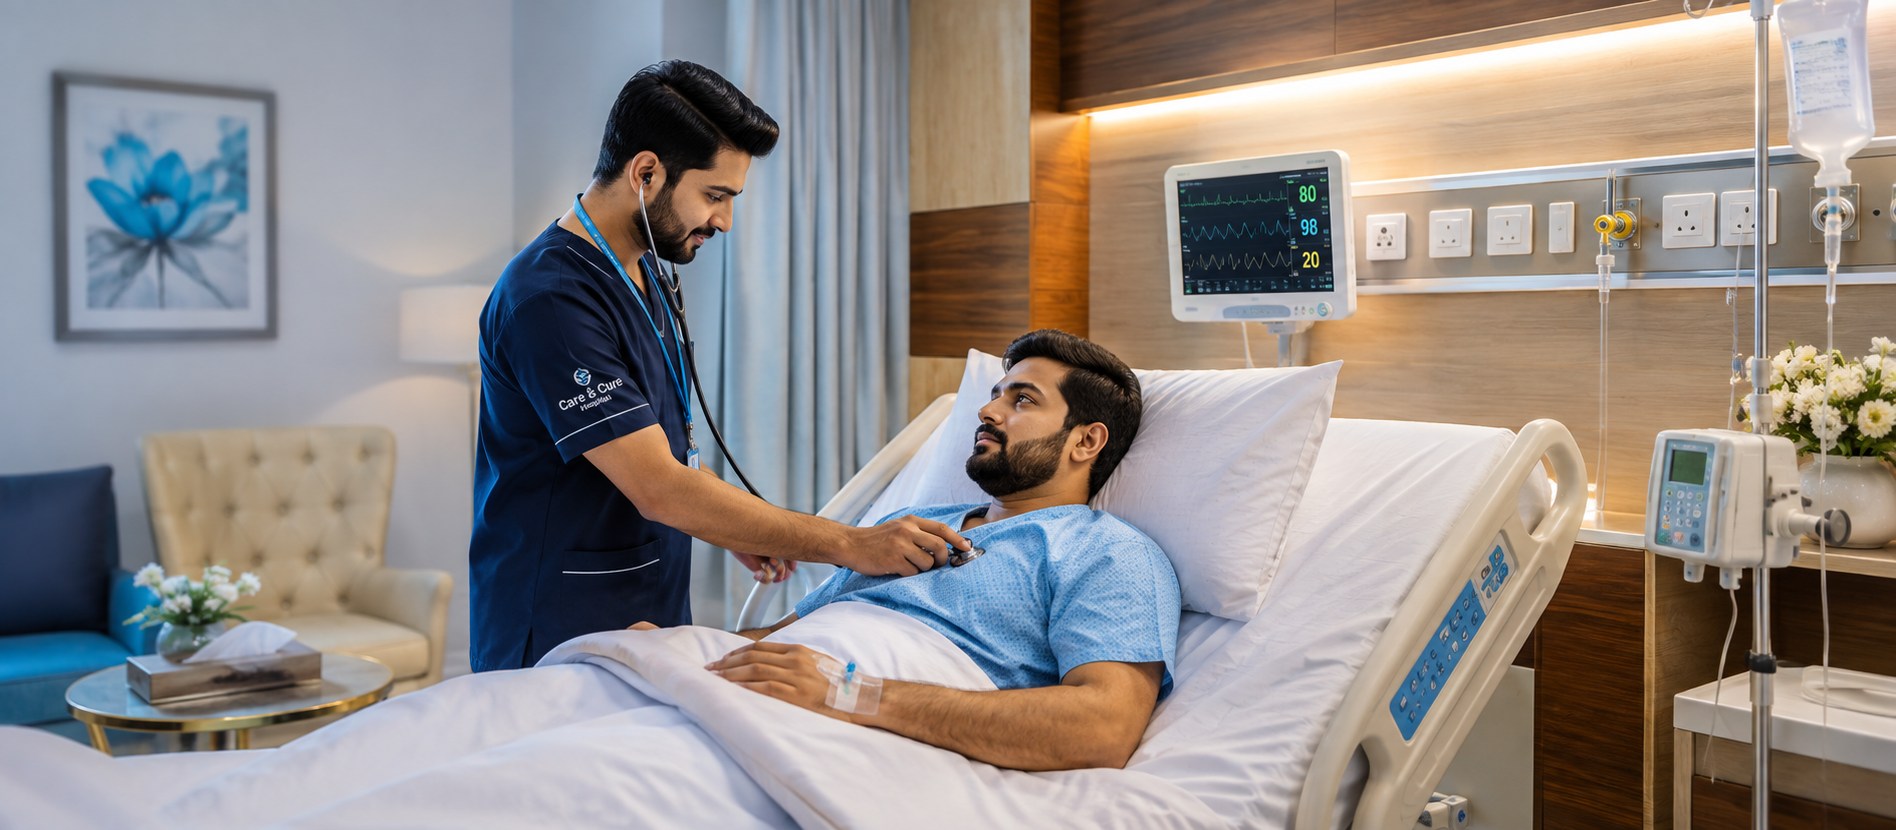
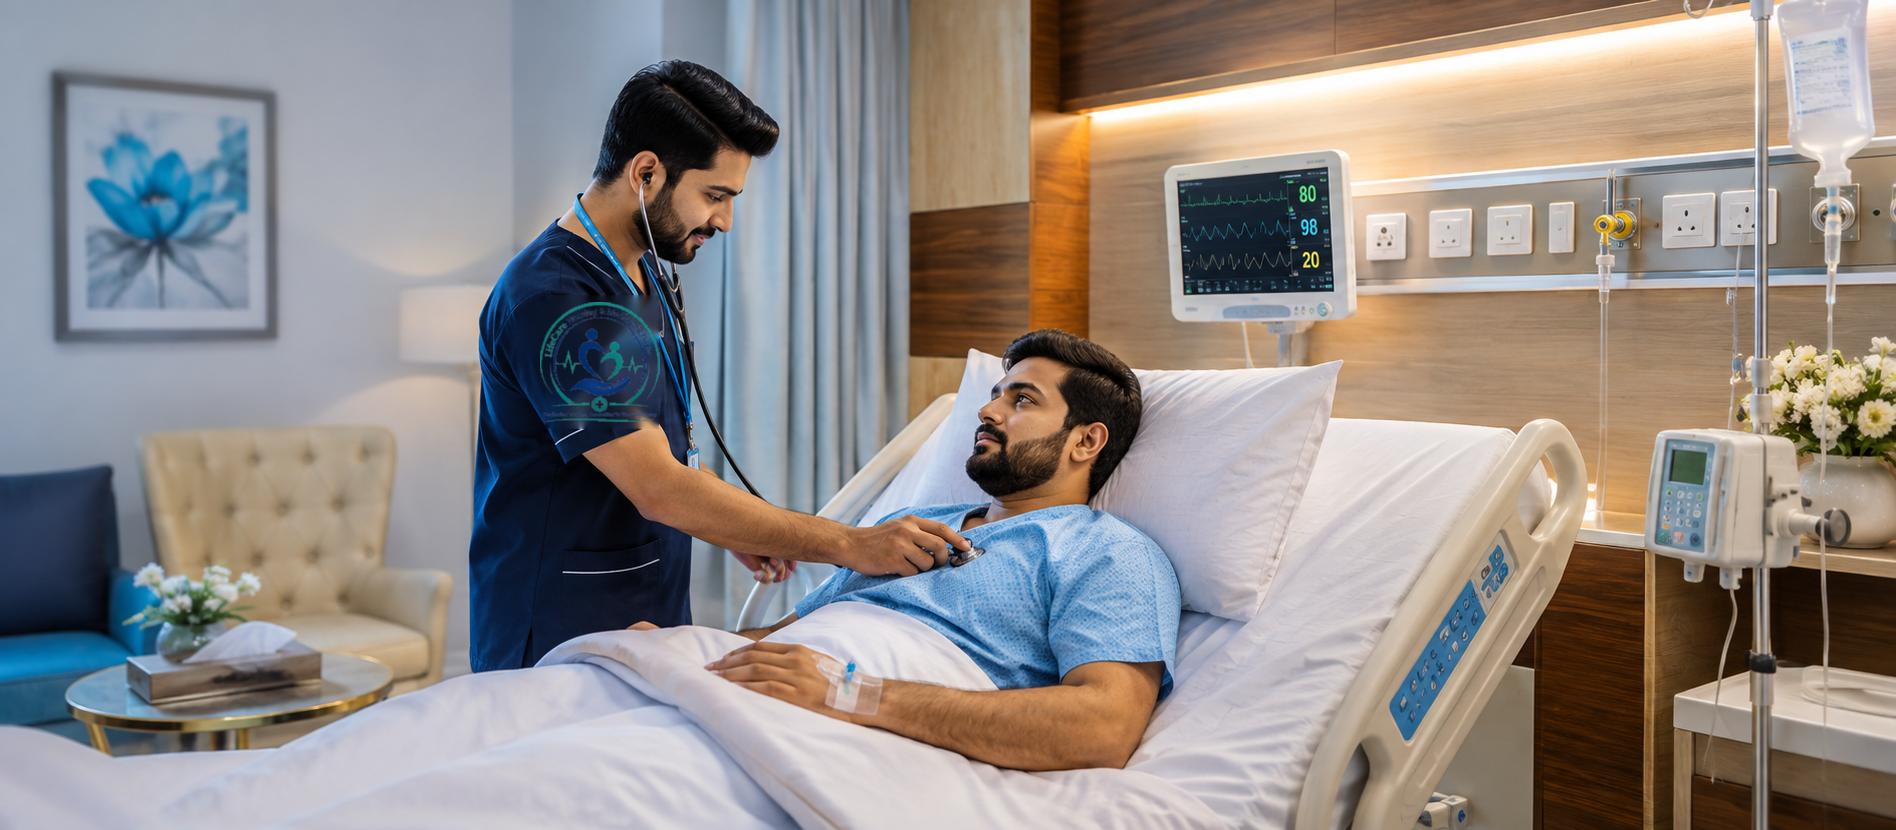
Update project

Changed region(s): [[0.2801, 0.3614, 0.3734, 0.512]]

diff --git a/home nursing.html b/home nursing.html
@@ -914,9 +914,9 @@
           <div class="container">
             <div class="row">
               <div class="col-lg-7 hero-slide-text">
-                <div class="eyebrow mb-3">Welcome to LifeCare Nursing</div>
+                <div class="eyebrow mb-3">Welcome to LifeCare Nursing $ Medical Services</div>
                 <h1 class="mb-3">Trusted Home Nursing Care</h1>
-                <p class="lead-text mb-4">Since 2015, we've been providing compassionate, reliable, and professional healthcare services across the city. Whether you need in-home nursing, elderly care, or medical support, we are here for you 24/7.</p>
+                <p class="lead-text mb-4">Since 2015, we've been providing compassionate, reliable, and professional healthcare services across the city. Whether you need in home nursing, elderly care, or medical support, we are here for you 24/7.</p>
                 <div class="d-flex gap-3 flex-wrap">
                   <a href="#services" class="btn-care">Our Services</a>
                   <a href="#contact" class="btn-outline-care">Get an Appointment</a>
@@ -936,7 +936,7 @@
               <div class="col-lg-7 hero-slide-text">
                 <div class="eyebrow mb-3">Compassionate Elderly Care</div>
                 <h1 class="mb-3">Personalized Care, Right at Home</h1>
-                <p class="lead-text mb-4">Our qualified nurses visit your loved ones at home for routine check-ups, medication management, and daily care — bringing hospital-quality attention into a familiar, comfortable setting.</p>
+                <p class="lead-text mb-4">Our qualified nurses visit your loved ones at home for routine check-ups, medication management, and daily care  bringing hospital quality attention into a familiar, comfortable setting.</p>
                 <div class="d-flex gap-3 flex-wrap">
                   <a href="#services" class="btn-care">Our Services</a>
                   <a href="#contact" class="btn-outline-care">Get an Appointment</a>
@@ -1053,8 +1053,9 @@
         <div class="location-bullet-box mb-4">
           <ul class="location-bullet-list">
             <li>
-              Our <strong>Head Office</strong> is located in <strong>Model Town, Lahore</strong>, with a <strong>Branch Office</strong> in <strong>DHA EME, Lahore</strong>. We also operate a <strong>40-bedded Nursing & Old Age Home</strong>, offering 24/7 nursing care, medical supervision, rehabilitation, and compassionate support for older adults and long-term care patients.
+              Our <strong>Head Office</strong> is located in <strong>  Near Zee Garden Main Shekhupura / Lahore Road Faislabad</strong>, with a <strong>Branch Office</strong> in <strong>Faislabad, Lahore, Shekhupura  </strong>. We also offering 24/7 nursing care, medical supervision, rehabilitation, and compassionate support for older adults and long-term care patients.
             </li>
+         
           </ul>
         </div>
 
@@ -1078,13 +1079,13 @@
             <div class="col-md-6">
               <h4 class="vm-title">Our Vision</h4>
               <p class="vm-text">
-                Our vision is to be one of Pakistan's most trusted providers of Home Health Care Services, recognized for clinical excellence, compassionate care, and a commitment to improving the health and well-being of our communities.
+                Our vision is to be one of Pakistan's most trusted providers of LifeCare Nursing $ Medical Services, recognized for clinical excellence, compassionate care, and a commitment to improving the health and well-being of our communities.
               </p>
             </div>
             <div class="col-md-6">
               <h4 class="vm-title">Our Mission</h4>
               <p class="vm-text">
-                Our mission is to provide safe, compassionate, and high-quality <strong>Home Health Care Services</strong> that improve the health and well-being of our patients. We are committed to delivering personalized Nursing Care at Home, elderly care, rehabilitation, and medical support through qualified healthcare professionals.
+                Our mission is to provide safe, compassionate, and high-quality <strong> LifeCare Nursing $ Medical Services</strong> that improve the health and well-being of our patients. We are committed to delivering personalized Nursing Care at Home, elderly care, rehabilitation, and medical support through qualified healthcare professionals.
               </p>
             </div>
           </div>

diff --git a/home-nursing-care.html b/home-nursing-care.html
@@ -369,7 +369,7 @@
 
         <h3 class="sub-heading">Compassionate & Reliable Support</h3>
         <p class="content-lead">
-          What makes our service stand out is not only the clinical expertise but also the compassion and dedication of our nursing staff. We know that recovery requires more than just treatment — it requires emotional support, companionship, and personalised attention. Our nurses work closely with patients and families to make sure care plans are followed effectively and with empathy.
+          What makes our service stand out is not only the clinical expertise but also the compassion and dedication of our nursing staff. We know that recovery requires more than just treatment  it requires emotional support, companionship, and personalised attention. Our nurses work closely with patients and families to make sure care plans are followed effectively and with empathy.
         </p>
 
         <a href="index.html#contact" class="btn-care mt-3">Book a Nurse</a>

diff --git a/index.html b/index.html
@@ -1394,7 +1394,7 @@
   <div class="container">
     <div class="text-center mb-5">
       <div class="eyebrow justify-content-center mb-3">Our Team</div>
-      <h2>Meet Our Expert Medical Professionals</h2>
+      <h2>Meet Our Medical Professionals</h2>
     </div>
     <div class="row g-4">
       <div class="col-6 col-lg-3">
